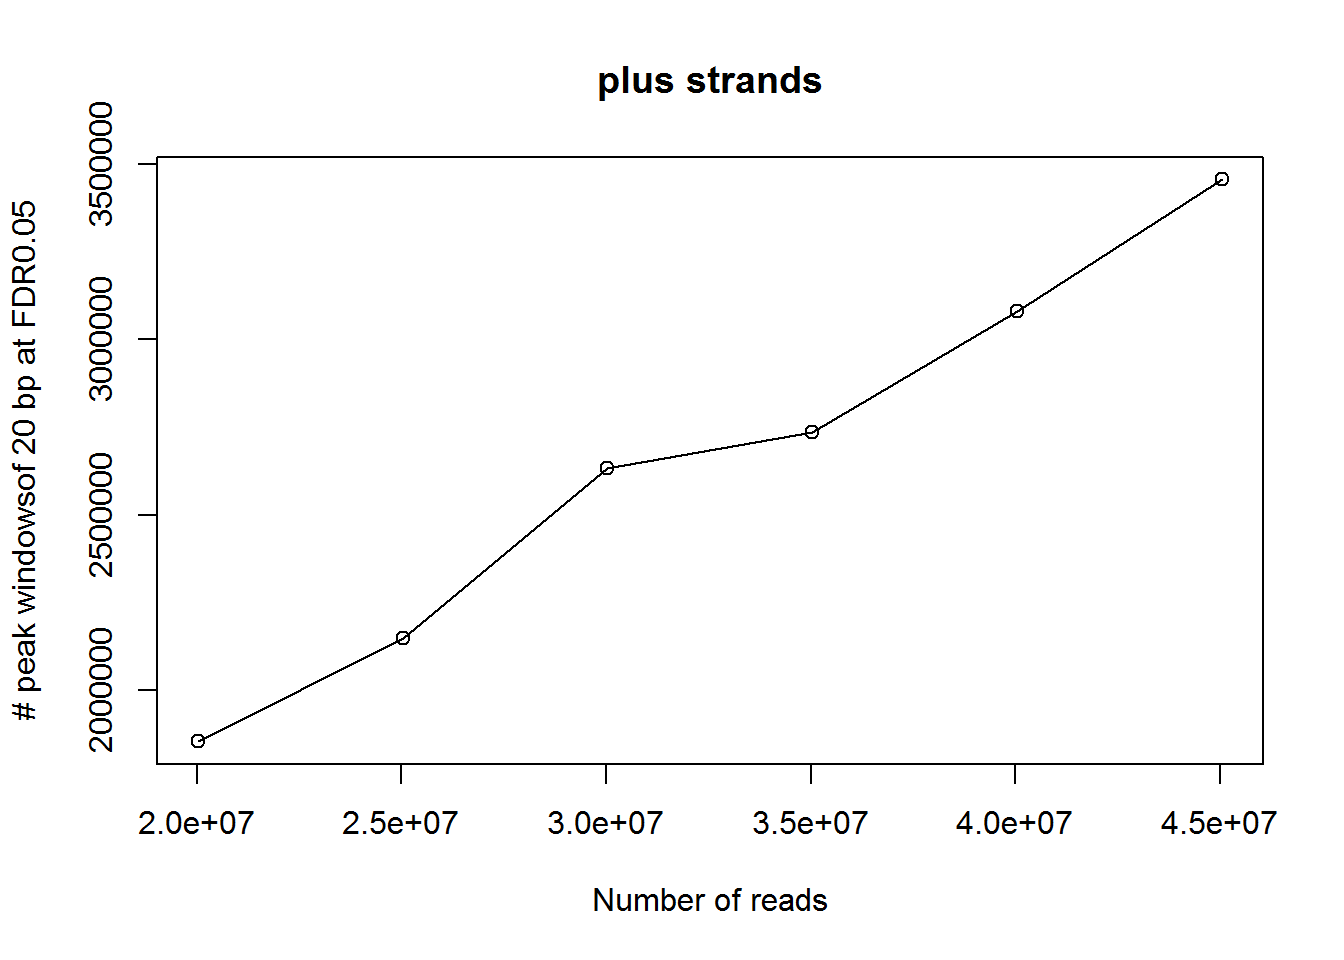
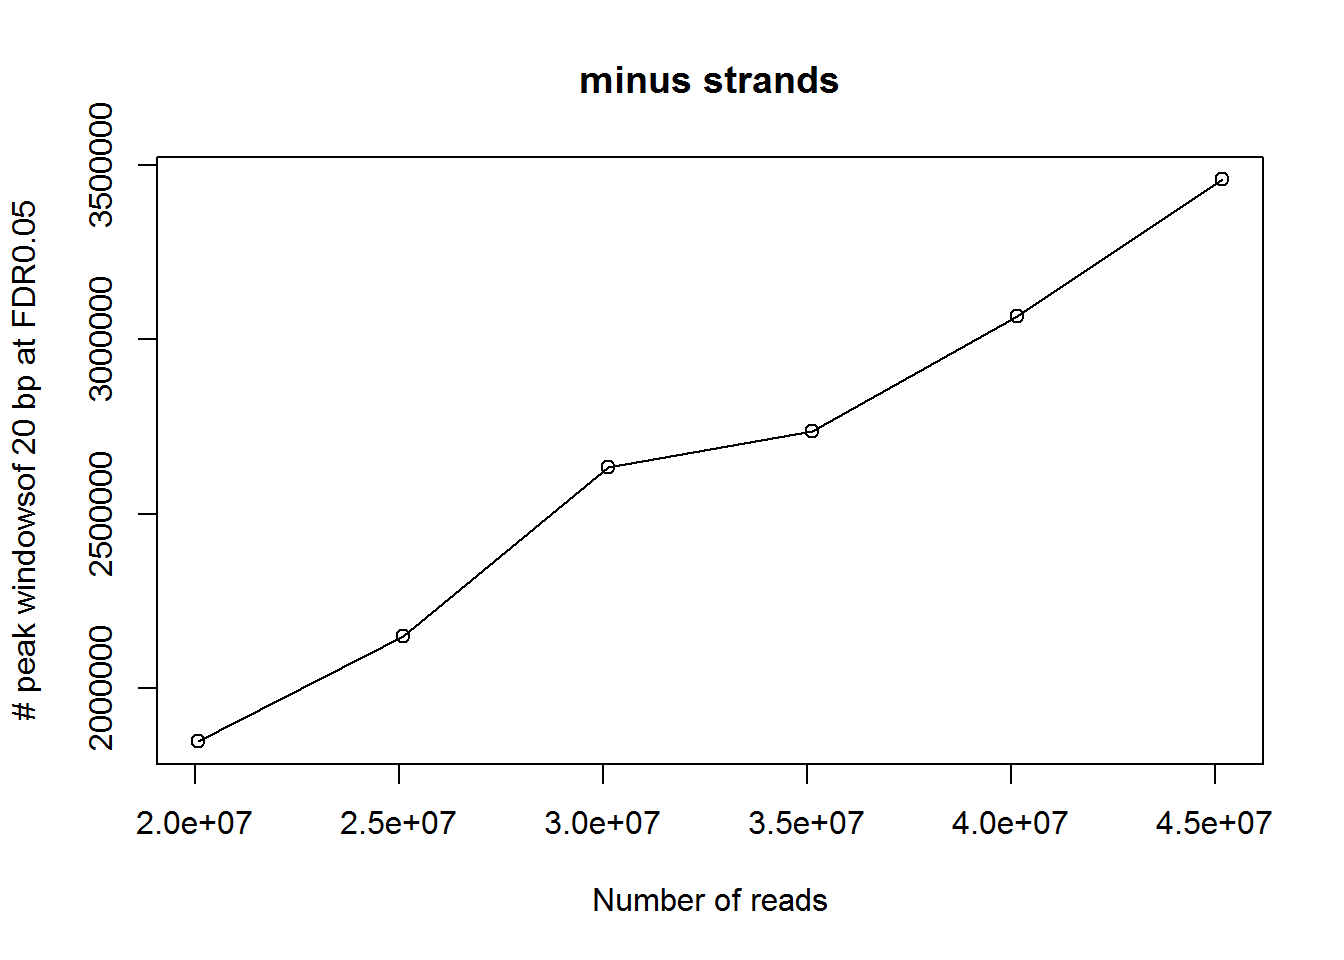
apr 28

diff --git a/docs/JumpSeq-analysis.html b/docs/JumpSeq-analysis.html
@@ -312,17 +312,17 @@ div.tocify {
 shared across the workflowr files. -->
 <!-- Update knitr chunk options -->
 <!-- Insert the date the file was last updated -->
-<p><strong>Last updated:</strong> 2017-04-24</p>
+<p><strong>Last updated:</strong> 2017-04-27</p>
 <!-- Insert the code version (Git commit SHA1) if Git repository exists and R
  package git2r is installed -->
-<p><strong>Code version:</strong> 48cded1</p>
+<p><strong>Code version:</strong> 744a8de</p>
 <!-- Add your analysis here -->
-<p>All samples are <a href="https://docs.google.com/spreadsheets/d/1WesFCQTrFplnXRKCHmhqtm1529DHc5Sc2tX7GkRa_-U/edit#gid=1664366512">here</a>: 48 ng (11); 24 ng (5); 12 ng (5); 6ng (5); 2.4 ng (5); 0.6ng (2).</p>
+<p>All samples are <a href="https://docs.google.com/spreadsheets/d/1FHkVSgTCJDY19VcFg2goat4rXJfxofCn3CFRV-gCbfo/edit#gid=400442004">here</a>: 48 ng (11); 24 ng (5); 12 ng (5); 6ng (5); 2.4 ng (5); 0.6ng (2).</p>
 <div id="ng-5hmc-replicates" class="section level2">
 <h2>48ng 5hmC replicates</h2>
 <div id="summary" class="section level3">
 <h3>Summary</h3>
-<p>There are eleven 48ng 5hmC replicates(see <a href="https://docs.google.com/spreadsheets/d/1FHkVSgTCJDY19VcFg2goat4rXJfxofCn3CFRV-gCbfo/edit#gid=400442004">here</a>). Each one has two strands, plus+minus.</p>
+<p>There are eleven 48ng 5hmC replicates and each one has two strands, plus+minus.</p>
 <table style="width:81%;">
 <caption>Number of reads in plus and minus strand for each 48 ng replicate.</caption>
 <colgroup>
@@ -429,11 +429,12 @@ shared across the workflowr files. -->
 </tr>
 </tbody>
 </table>
-<div id="comparison-with-dali-hans-data" class="section level5">
-<h5>Comparison with Dali Han’s data</h5>
+<div id="comparison-1-comparison-with-dali-hans-data" class="section level5">
+<h5>Comparison 1: Comparison with Dali Han’s data</h5>
+<p>Dali Han’s peak: 64865 peak windows with varying window size.</p>
 <p>Originally called 20 bp windows are extended by 2kbp, 1kbp upstream and 1kbp downstream. Overlapping between extended peak windows (at four p value cutoffs <span class="math inline">\(10^{-3}, 10^{-7}, 10^{-15}, 10^{-20}\)</span>) and Dali Han’s data (window size differs among each other) are summzried below.</p>
 <table style="width:72%;">
-<caption>Comparison of peak windows between two large replivcates and Dali’s data.</caption>
+<caption>Comparison of peak windows between two large replivcates and Dali’s data. Column2: total number of peak windows; Column3: number of peak windows overlapping with Dali’s peak; Column4: the ratio.</caption>
 <colgroup>
 <col width="27%" />
 <col width="22%" />
@@ -462,7 +463,7 @@ shared across the workflowr files. -->
 <td>0.3150647</td>
 </tr>
 <tr class="odd">
-<td>rep1..minus.21.bp.enriched.window.p10-15.bed.extend2kbp.bed</td>
+<td>rep1.minus.21.bp.enriched.window.p10-15.bed.extend2kbp.bed</td>
 <td>9191</td>
 <td>27656</td>
 <td>0.3323329</td>
@@ -547,9 +548,16 @@ shared across the workflowr files. -->
 </tr>
 </tbody>
 </table>
-</div>
-<div id="comparison-between-two-large-replicates" class="section level5">
-<h5>Comparison between two large replicates</h5>
+<pre class="r"><code>rep1.minus=c(0.2624, 0.3151, 0.3323, 0.3302); rep1.plus=c(0.2618, 0.3149, 0.3314, 0.3232)
+rep2.minus=c(0.2810, 0.3542, 0.3819, 0.3698); rep2.plus=c(0.2800, 0.3550, 0.3822, 0.3695)
+plot(rep1.minus, ylim=c(0.2, 0.4), type=&quot;o&quot;, xaxt=&#39;n&#39;, xlab=&quot;p value cutoffs&quot;, ylab=&quot;ratio&quot;, col=1, main=&quot;Overlapping rate with Dali&#39;s peaks&quot;)
+lines(rep1.plus, col=2, type=&quot;o&quot;)
+lines(rep2.minus, col=3, type=&quot;o&quot;)
+lines(rep2.plus, col=4, type=&quot;o&quot;)
+legend(3, 0.3, c(&quot;rep1.minus&quot;, &quot;rep1.plus&quot;, &quot;rep2.minus&quot;, &quot;rep2.plus&quot;), col=c(1,2,3,4), lty=c(1,1,1,1))
+axis.labels &lt;-c(&quot;10^(-3)&quot;, &quot;10^(-7)&quot;, &quot;10^(-15)&quot;, &quot;10^(-20)&quot;)
+axis(1, at=seq(1,4), labels=axis.labels)</code></pre>
+<p><img src="figure/JumpSeq-analysis.Rmd/unnamed-chunk-1-1.png" width="672" style="display: block; margin: auto;" /> ##### Comparison 2: Comparison between two large replicates</p>
 <table>
 <caption>Overlapping among peak windows extended by 2kbp for 2 large combined replicates at different p value cutoffs.</caption>
 <thead>
@@ -732,12 +740,44 @@ shared across the workflowr files. -->
 <pre class="r"><code>num.win.FDR5per=c(1848560, 2149967, 2635168, 2738080, 3066015, 3458501)
 num.reads=c(20070771, 25091279, 30110375, 35127703, 40149113, 45168687)
 plot(num.reads, num.win.FDR5per, xlab=&quot;Number of reads&quot;, ylab=&quot;# peak windowsof 20 bp at FDR0.05&quot;, type=&quot;o&quot;, main=&quot;minus strands&quot;)</code></pre>
-<p><img src="figure/JumpSeq-analysis.Rmd/unnamed-chunk-3-1.png" width="672" style="display: block; margin: auto;" /></p>
+<p><img src="figure/JumpSeq-analysis.Rmd/unnamed-chunk-4-1.png" width="672" style="display: block; margin: auto;" /></p>
 <pre class="r"><code>num.win.FDR5per=c(1854249, 2148405, 2632652, 2736153, 3082261, 3456391)
 num.reads=c(20027749, 25029777, 30035435, 35040232, 40044961, 45048466)
 plot(num.reads, num.win.FDR5per, xlab=&quot;Number of reads&quot;, ylab=&quot;# peak windowsof 20 bp at FDR0.05&quot;, type=&quot;o&quot;, main=&quot;plus strands&quot;)</code></pre>
-<p><img src="figure/JumpSeq-analysis.Rmd/unnamed-chunk-4-1.png" width="672" style="display: block; margin: auto;" /></p>
+<p><img src="figure/JumpSeq-analysis.Rmd/unnamed-chunk-5-1.png" width="672" style="display: block; margin: auto;" /></p>
 <p><strong>Based on the current observations, the number of peak windows grows as the read coverage increases, it does not show significant plateau</strong>.</p>
+<div id="comparison-with-dalis-peaks" class="section level4">
+<h4>Comparison with Dali’s Peaks</h4>
+<p>There are 64865 peak windows of varying size in Dali’s data. With each down sample, call peak windows of 20bp.</p>
+<pre class="r"><code>jump.rate.minus=c(0.1518, 0.1516, 0.1457, 0.1494, 0.1460, 0.1425)
+jump.rate.plus=c(0.1511, 0.1512, 0.1454, 0.1491, 0.1458, 0.1424)
+dali.rate.minus=c(0.8715, 0.8866, 0.9001, 0.9039, 0.9102, 0.9156)
+dali.rate.plus=c(0.8709, 0.8863, 0.8999, 0.9039, 0.9095, 0.9153)
+plot(jump.rate.minus, ylim=c(0, 1), type=&quot;o&quot;, xaxt=&#39;n&#39;, xlab=&quot;number of reads&quot;, ylab=&quot;overlapping rate&quot;, col=1, main=&quot;Overlapping rate of peak windows of 20 bp (FDR0.05) with Dali&#39;s peaks&quot;, cex=0.8)
+lines(jump.rate.plus, col=2, type=&quot;o&quot;)
+lines(dali.rate.minus, col=3, type=&quot;o&quot;)
+lines(dali.rate.plus, col=4, type=&quot;o&quot;)
+legend(1, 0.6, c(&quot;jump.rate.minus&quot;, &quot;jump.rate.plus&quot;, &quot;dali.rate.minus&quot;, &quot;dali.rate.plus&quot;), col=c(1,2,3,4), lty=c(1,1,1,1))
+axis.labels &lt;-c(&quot;40% reads&quot;, &quot;50% reads&quot;, &quot;60% reads&quot;, &quot;70% reads&quot;, &quot;80% reads&quot;, &quot;90% reads&quot;)
+axis(1, at=seq(1,6), labels=axis.labels)</code></pre>
+<p><img src="figure/JumpSeq-analysis.Rmd/unnamed-chunk-6-1.png" width="672" style="display: block; margin: auto;" /> jump.rate.<em>: the ratio of windows overlapping with Dali’s peaks from all called peaks windows. dali.rate.</em>: among of all Dali’s peaks, the ratio of windows overlapping with our called peak windows.</p>
+</div>
+<div id="cmparison-with-strong-tab-seq-peaks" class="section level4">
+<h4>Cmparison with strong TAB-seq peaks</h4>
+<p>There are 2,057,636 strong base level peaks from TAB-seq. To compute overlapping rate, each base is extend by 1bp downstream, 1bp upstream.</p>
+<pre class="r"><code>jump.rate.minus=c(0.1997, 0.1994, 0.1888, 0.1945, 0.1887, 0.1821)
+jump.rate.plus=c(0.1994, 0.1996, 0.1890, 0.1946, 0.1885, 0.1820)
+dali.rate.minus=c(0.2163, 0.2505, 0.2891, 0.3091, 0.3350, 0.3633)
+dali.rate.plus=c(0.2164, 0.2503, 0.2889, 0.3089, 0.3361, 0.3628)
+plot(jump.rate.minus, ylim=c(0, 1), type=&quot;o&quot;, xaxt=&#39;n&#39;, xlab=&quot;number of reads&quot;, ylab=&quot;overlapping rate&quot;, col=1, main=&quot;Overlapping rate of peak windows (20bp,FDR0.05) with strong TAB-seq peaks&quot;, cex=0.5)
+lines(jump.rate.plus, col=2, type=&quot;o&quot;)
+lines(dali.rate.minus, col=3, type=&quot;o&quot;)
+lines(dali.rate.plus, col=4, type=&quot;o&quot;)
+legend(1, 0.8, c(&quot;jump.rate.minus&quot;, &quot;jump.rate.plus&quot;, &quot;StrongTAB.rate.minus&quot;, &quot;StrongTAB.rate.plus&quot;), col=c(1,2,3,4), lty=c(1,1,1,1))
+axis.labels &lt;-c(&quot;40% reads&quot;, &quot;50% reads&quot;, &quot;60% reads&quot;, &quot;70% reads&quot;, &quot;80% reads&quot;, &quot;90% reads&quot;)
+axis(1, at=seq(1,6), labels=axis.labels)</code></pre>
+<p><img src="figure/JumpSeq-analysis.Rmd/unnamed-chunk-7-1.png" width="672" style="display: block; margin: auto;" /></p>
+</div>
 </div>
 </div>
 <div id="ng-5hmc-replicate" class="section level2">
@@ -745,16 +785,153 @@ plot(num.reads, num.win.FDR5per, xlab=&quot;Number of reads&quot;, ylab=&quot;# 
 </div>
 <div id="ng-5hmc-replicate-1" class="section level2">
 <h2>12ng 5hmC replicate</h2>
+<p>There are 5 12ng 5hmC replicates.</p>
+<table>
+<caption>number of reads in each replicate</caption>
+<thead>
+<tr class="header">
+<th>rep</th>
+<th>plus</th>
+<th>minus</th>
+</tr>
+</thead>
+<tbody>
+<tr class="odd">
+<td>rep 1</td>
+<td>1,538,440</td>
+<td>1,543,973</td>
+</tr>
+<tr class="even">
+<td>rep 2</td>
+<td>2,817,848</td>
+<td>2,829,593</td>
+</tr>
+<tr class="odd">
+<td>rep 3</td>
+<td>1,805,014</td>
+<td>1,813,743</td>
+</tr>
+<tr class="even">
+<td>rep 4</td>
+<td>1,962,631</td>
+<td>1,976,519</td>
+</tr>
+<tr class="odd">
+<td>rep 5</td>
+<td>1,365,146</td>
+<td>1,375,074</td>
+</tr>
+</tbody>
+</table>
 </div>
 <div id="ng-5hmc-replicate-2" class="section level2">
 <h2>6ng 5hmC replicate</h2>
 </div>
 <div id="ng-5hmc-replicate-3" class="section level2">
 <h2>2.4ng 5hmC replicate</h2>
-<p>There are 4 replicates (see <a href="https://docs.google.com/spreadsheets/d/1FHkVSgTCJDY19VcFg2goat4rXJfxofCn3CFRV-gCbfo/edit#gid=400442004">here</a>).</p>
+<table>
+<caption>number of reads in every replicate.</caption>
+<thead>
+<tr class="header">
+<th>rep</th>
+<th>plus</th>
+<th>minus</th>
+</tr>
+</thead>
+<tbody>
+<tr class="odd">
+<td>rep 1</td>
+<td>270,885</td>
+<td>272,807</td>
+</tr>
+<tr class="even">
+<td>rep 2</td>
+<td></td>
+<td></td>
+</tr>
+<tr class="odd">
+<td>rep 3</td>
+<td>279,404</td>
+<td>281,109</td>
+</tr>
+<tr class="even">
+<td>rep 4</td>
+<td>213,739</td>
+<td>215,604</td>
+</tr>
+</tbody>
+</table>
+<pre class="r"><code>win.plus1=c(219862, 224538, 179974) # FDR0.5
+win.minus1=c(219604, 130238, 179240)
+
+win.plus2=c(1467, 1341, 1306) # FDR0.05
+win.minus2=c(1395, 1661, 1325)
+plot(win.plus2, ylim=c(1000, 230000), type=&quot;o&quot;, xaxt=&#39;n&#39;, xlab=&quot;replicates&quot;, ylab=&quot;# windows of 1kb&quot;, col=1, main=&quot;Number of peak windows&quot;, cex=0.5)
+lines(win.minus2, col=2, type=&quot;o&quot;)
+lines(win.plus1, col=3, type=&quot;o&quot;)
+lines(win.minus1, col=4, type=&quot;o&quot;)
+legend(1, 100000, c(&quot;plus_FDR0.05&quot;, &quot;minus_FDR0.05&quot;, &quot;plus_FDR0.5&quot;, &quot;minus_FDR0.5&quot;), col=c(1,2,3,4), lty=c(1,1,1,1))
+axis.labels &lt;-c(&quot;rep 1&quot;, &quot;rep3&quot;, &quot;rep4&quot;)
+axis(1, at=seq(1,3), labels=axis.labels)</code></pre>
+<p><img src="figure/JumpSeq-analysis.Rmd/unnamed-chunk-8-1.png" width="672" style="display: block; margin: auto;" /></p>
+<div id="comparison-with-dalis-peaks-1" class="section level3">
+<h3>Comparison with Dali’s peaks</h3>
+<pre class="r"><code>win.plus1=c(0.1014, 0.0977, 0.0997) # FDR0.5
+win.minus1=c(0.1025, 0.0982, 0.1003)
+
+win.plus2=c(0.2420, 0.1909, 0.2580) # FDR0.05
+win.minus2=c(0.2165, 0.2011, 0.2566)
+plot(win.plus2, ylim=c(0, 0.6), type=&quot;o&quot;, xaxt=&#39;n&#39;, xlab=&quot;replicates&quot;, ylab=&quot;ratio&quot;, col=1, main=&quot;Ratio of called peak windows of 1kb overlapping with Dali&#39;s data&quot;, cex=0.5)
+lines(win.minus2, col=2, type=&quot;o&quot;)
+lines(win.plus1, col=3, type=&quot;o&quot;)
+lines(win.minus1, col=4, type=&quot;o&quot;)
+legend(1, 0.6, c(&quot;plus_FDR0.05&quot;, &quot;minus_FDR0.05&quot;, &quot;plus_FDR0.5&quot;, &quot;minus_FDR0.5&quot;), col=c(1,2,3,4), lty=c(1,1,1,1))
+axis.labels &lt;-c(&quot;rep 1&quot;, &quot;rep3&quot;, &quot;rep4&quot;)
+axis(1, at=seq(1,3), labels=axis.labels)</code></pre>
+<p><img src="figure/JumpSeq-analysis.Rmd/unnamed-chunk-9-1.png" width="672" style="display: block; margin: auto;" /></p>
+<pre class="r"><code>win.plus1=c(0.3231, 0.3189, 0.2662) # FDR0.5
+win.minus1=c(0.3264, 0.3205, 0.2694)
+
+win.plus2=c(0.0058, 0.0041, 0.0056) # FDR0.05
+win.minus2=c(0.0048, 0.0054, 0.0056)
+plot(win.plus2, ylim=c(0, 0.6), type=&quot;o&quot;, xaxt=&#39;n&#39;, xlab=&quot;replicates&quot;, ylab=&quot;ratio&quot;, col=1, main=&quot;Ratio of Dali&#39;s peaks overlapping with called peaks&quot;, cex=0.5)
+lines(win.minus2, col=2, type=&quot;o&quot;)
+lines(win.plus1, col=3, type=&quot;o&quot;)
+lines(win.minus1, col=4, type=&quot;o&quot;)
+legend(1, 0.6, c(&quot;plus_FDR0.05&quot;, &quot;minus_FDR0.05&quot;, &quot;plus_FDR0.5&quot;, &quot;minus_FDR0.5&quot;), col=c(1,2,3,4), lty=c(1,1,1,1))
+axis.labels &lt;-c(&quot;rep 1&quot;, &quot;rep3&quot;, &quot;rep4&quot;)
+axis(1, at=seq(1,3), labels=axis.labels)</code></pre>
+<p><img src="figure/JumpSeq-analysis.Rmd/unnamed-chunk-10-1.png" width="672" style="display: block; margin: auto;" /></p>
 </div>
-<div id="ng-5hmc-replicate-4" class="section level2">
-<h2>0.6ng 5hmC replicate</h2>
+<div id="comparison-with-strong-tab-seq" class="section level3">
+<h3>Comparison with strong TAB-seq</h3>
+<pre class="r"><code>win.plus1=c(0.5894, 0.5836, 0.5780) # FDR0.5
+win.minus1=c(0.5884, 0.5828, 0.5767)
+
+win.plus2=c(0.8064, 0.7845, 0.7910) # FDR0.05
+win.minus2=c(0.7914, 0.7628, 0.7887)
+plot(win.plus2, ylim=c(0, 1), type=&quot;o&quot;, xaxt=&#39;n&#39;, xlab=&quot;replicates&quot;, ylab=&quot;ratio&quot;, col=1, main=&quot;Ratio of called peak windows of 1kb overlapping with strongTAB-seq&quot;, cex=0.5)
+lines(win.minus2, col=2, type=&quot;o&quot;)
+lines(win.plus1, col=3, type=&quot;o&quot;)
+lines(win.minus1, col=4, type=&quot;o&quot;)
+legend(1, 0.5, c(&quot;plus_FDR0.05&quot;, &quot;minus_FDR0.05&quot;, &quot;plus_FDR0.5&quot;, &quot;minus_FDR0.5&quot;), col=c(1,2,3,4), lty=c(1,1,1,1))
+axis.labels &lt;-c(&quot;rep 1&quot;, &quot;rep3&quot;, &quot;rep4&quot;)
+axis(1, at=seq(1,3), labels=axis.labels)</code></pre>
+<p><img src="figure/JumpSeq-analysis.Rmd/unnamed-chunk-11-1.png" width="672" style="display: block; margin: auto;" /></p>
+<pre class="r"><code>win.plus1=c(0.1835, 0.1832, 0.1460) # FDR0.5
+win.minus1=c(0.1827, 0.1826, 0.1468)
+
+win.plus2=c(0.0025, 0.0021, 0.0023) # FDR0.05
+win.minus2=c(0.0021, 0.0024, 0.0021)
+plot(win.plus2, ylim=c(0, 0.4), type=&quot;o&quot;, xaxt=&#39;n&#39;, xlab=&quot;replicates&quot;, ylab=&quot;ratio&quot;, col=1, main=&quot;Ratio of strongTAB-seq overlapping with called peaks of 1kb&quot;, cex=0.5)
+lines(win.minus2, col=2, type=&quot;o&quot;)
+lines(win.plus1, col=3, type=&quot;o&quot;)
+lines(win.minus1, col=4, type=&quot;o&quot;)
+legend(1, 0.4, c(&quot;plus_FDR0.05&quot;, &quot;minus_FDR0.05&quot;, &quot;plus_FDR0.5&quot;, &quot;minus_FDR0.5&quot;), col=c(1,2,3,4), lty=c(1,1,1,1))
+axis.labels &lt;-c(&quot;rep 1&quot;, &quot;rep3&quot;, &quot;rep4&quot;)
+axis(1, at=seq(1,3), labels=axis.labels)</code></pre>
+<p><img src="figure/JumpSeq-analysis.Rmd/unnamed-chunk-12-1.png" width="672" style="display: block; margin: auto;" /></p>
+</div>
 </div>
 <div id="session-information" class="section level2">
 <h2>Session information</h2>
